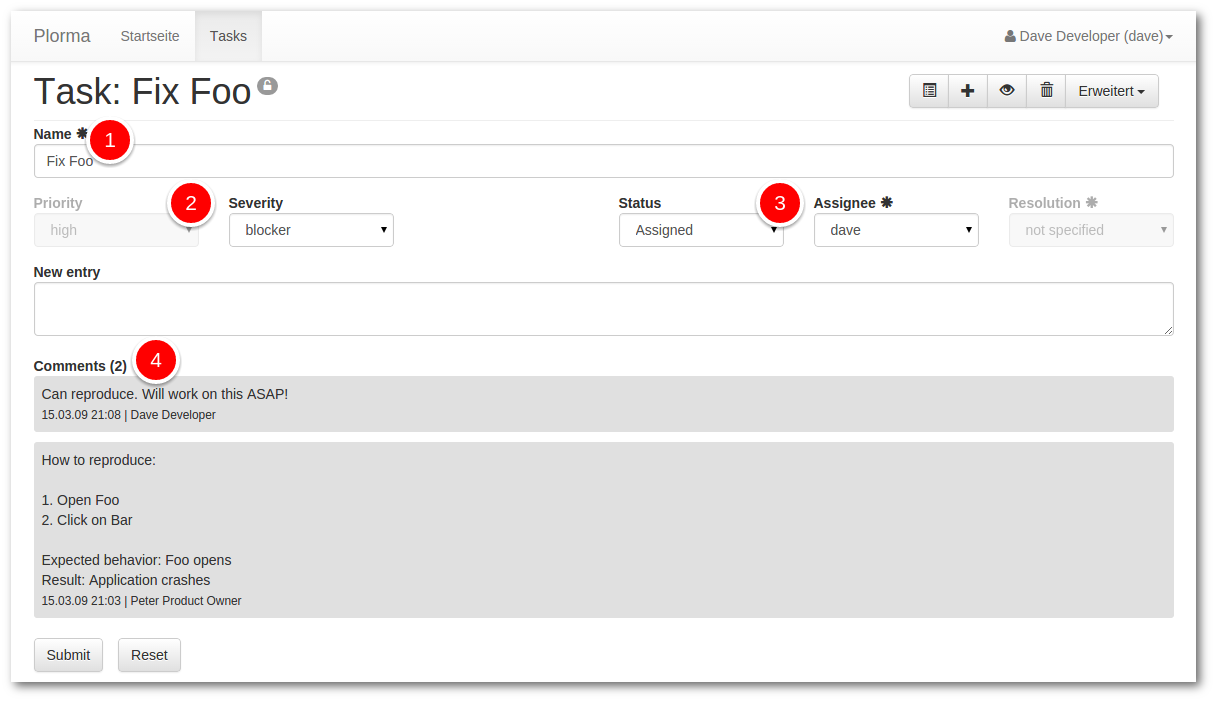
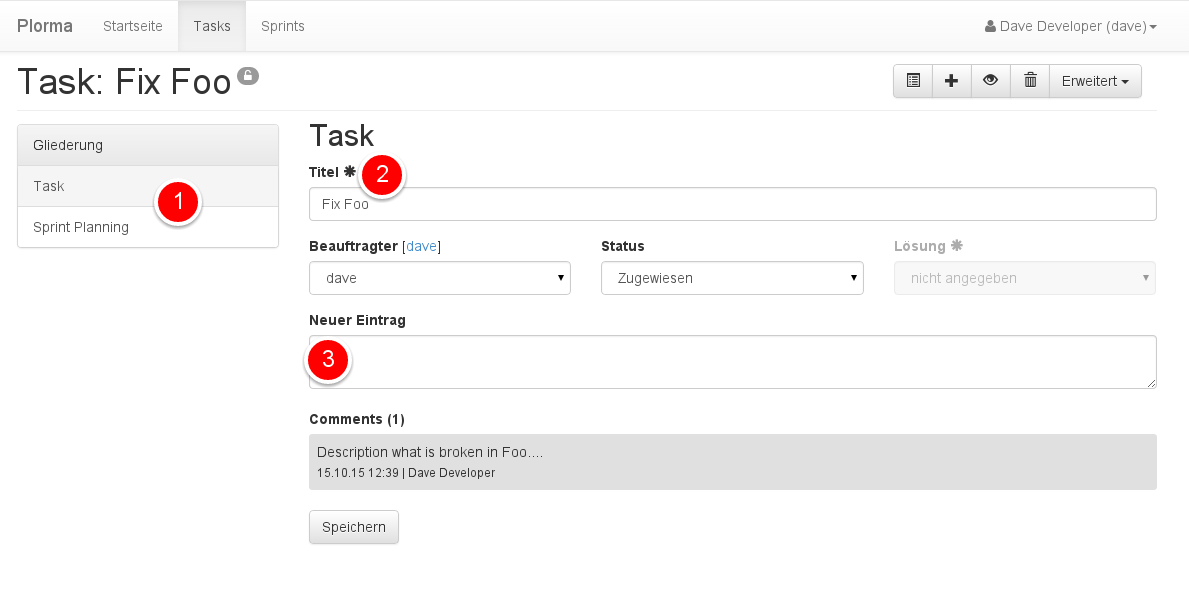
Changed and added elements to the outline of the documentation

diff --git a/docs/source/userguide/task.rst b/docs/source/userguide/task.rst
@@ -1,3 +1,5 @@
+
+
 ****
 Task
 ****
@@ -5,20 +7,27 @@ Task
    :width: 800 px
    :alt: Plorma task editing
 
-Every task must have a short title (1) which ideally sums up the task in a few
+Editing the task is devided into to parts (1). The basic fields for the tasks
+and fields related for the sprint planing.
+
+
+Every task must have a short title (2) which ideally sums up the task in a few
 words. The title is used in the Taskoverview to identify the task.
 
-The :ref:`task_priority` can be done in (2). Note that the priority is grayed
-out. This is because the priority can only be set by the product owner.
-
 The :ref:`task_states`, :ref:`task_resolution` and the *Assigne* can be set in
-(3). Some of the fields will become a required field based on the current
-state and selections. So the *Assignee* field will become a required field
-when switching into the assigned state.  The *Resolution* field and will
-become a required field if the task will be resolved.
+. Some of the fields will become a required field based on the current
+state and selections. So the *Resolution* field will become a required field
+when switching into the resolved state.
 
-Finally users can add comments (4) to give further information, or document
+Finally users can add comments (3) to give further information, or document
 their proceed. Comments are readable by all users.
+
+.. image:: ../images/screenshots/task_planning.png
+   :width: 800 px
+   :alt: Plorma task sprint planing
+
+The :ref:`task_priority` can be set in (1). The priority will influence the
+order of the task in the task overview or product backlog. 
 
 .. rubric:: Estimate
 
@@ -31,6 +40,10 @@ The estimate does not have any time unit like hours. It is a abstract
 estimate and needs to be interpreted individual. The estimate can be
 used as Story Points in a Scrum development process.
 
+.. rubric:: Sprints
+
+The sprint listing will show a list of Sprints which are currently in the
+planning state. You can assign tasks to more than on sprint.
 
 Lifecycle
 =========

diff --git a/docs/source/index.rst b/docs/source/index.rst
@@ -10,6 +10,9 @@ Welcome to Plorma's documentation!
    :maxdepth: 2
 
    general
+   userguide/sprint
+   userguide/scrumboard
+   userguide/productbacklog
    userguide/task
 
 
